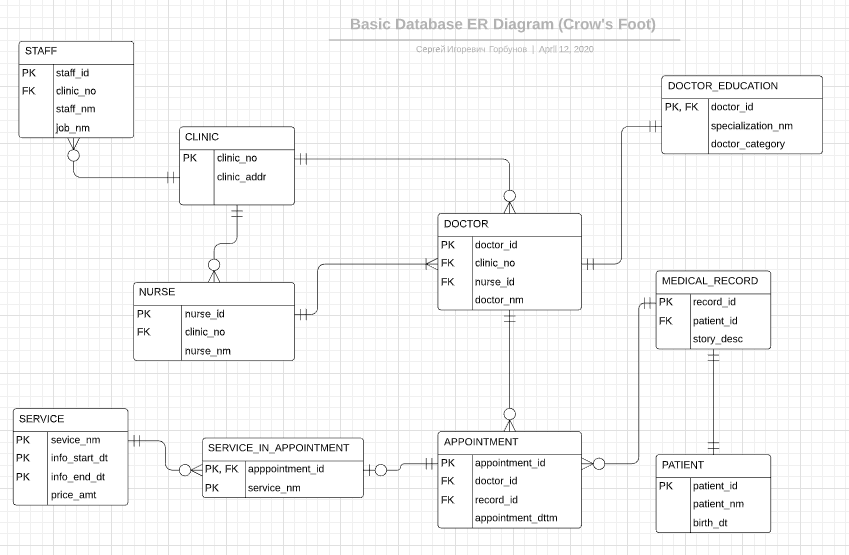
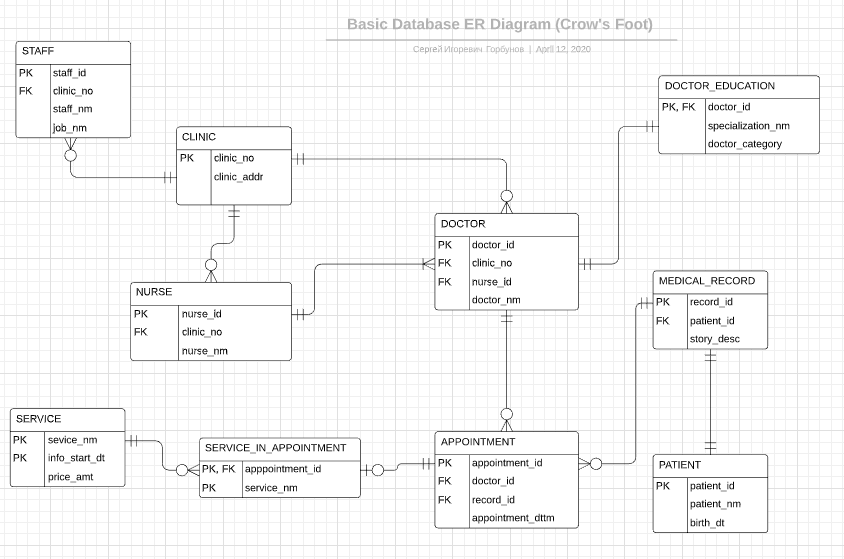
Remove odd INFO_END_DT attribute from SERVICE

diff --git a/README.md b/README.md
@@ -32,4 +32,4 @@
 
 ### Версионность
 
-Таблица `SERVICE` является версионной, поскольку стоимость различных услуг с течением времени может меняться (инфляция, смена поставщика расходных материалов и так далее). В свою очередь, для каждого приёма мы храним только его время и список услуг, поэтому нам важно знать, сколько стоила та или иная услуга в определённый момент времени. Версионность достигается путём использования `SCD` типа 2: имеется информация и промежуток времени, в течение которого она является актуальной. Для того, чтобы каждый день не увеличивать дату окончания, мы берём некоторый момент в будущем.
+Таблица `SERVICE` является версионной, поскольку стоимость различных услуг с течением времени может меняться (инфляция, смена поставщика расходных материалов и так далее). В свою очередь, для каждого приёма мы храним только его время и список услуг, поэтому нам важно знать, сколько стоила та или иная услуга в определённый момент времени. Версионность достигается путём использования `SCD` типа 2: имеется информация и момент времени, начиная с которого она является актуальной. Актуальность сохраняется до следующего момента времени, а если его нет, то она актуальна и в данный момент.
